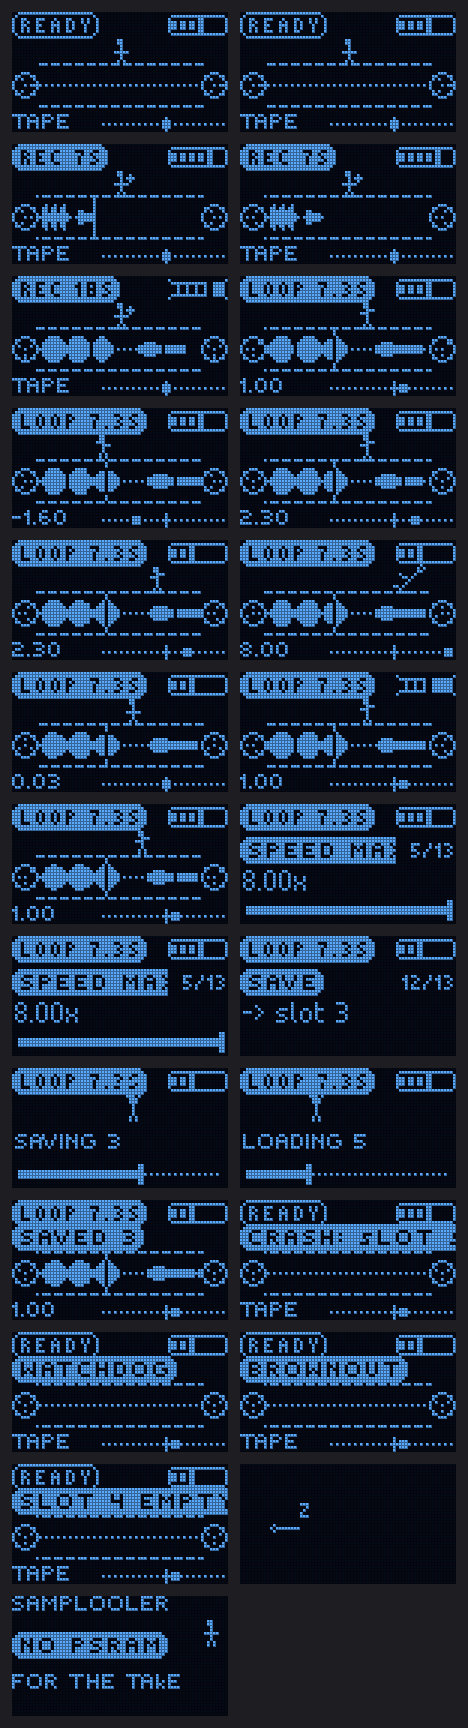
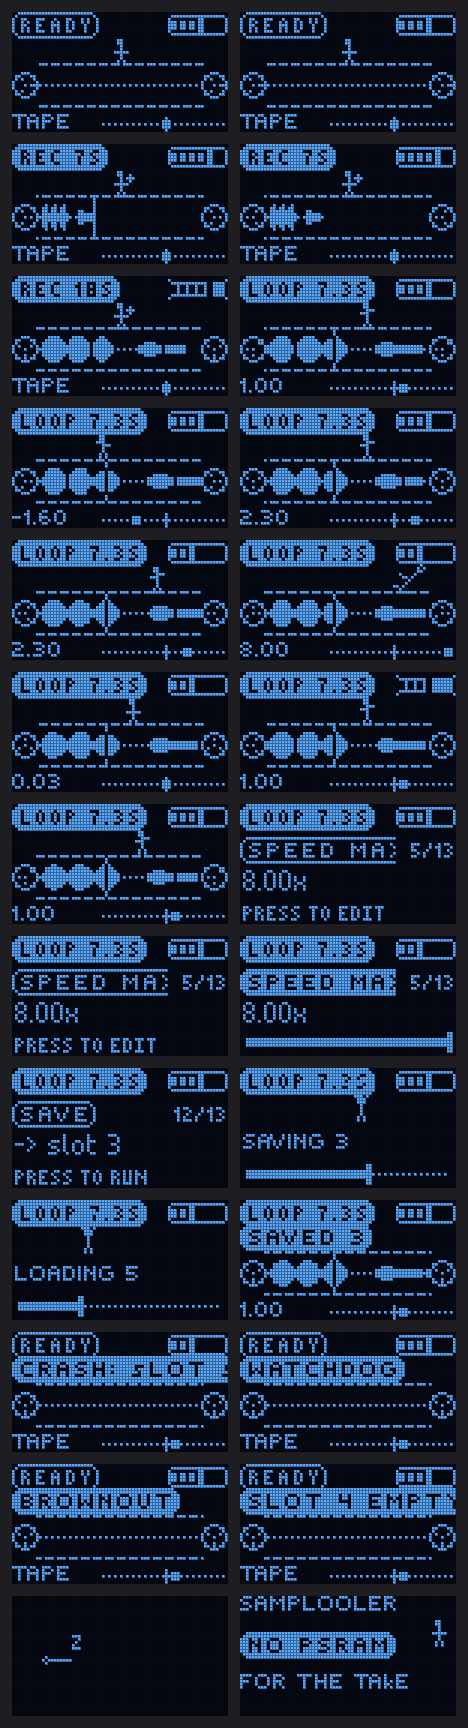
Record button instead of the joystick; the encoder runs the menu: tap to open, dive, back; hold to leave
PIN_REC (GPIO 3 on the S3, the Mini board's REC; the C3 keeps BOOT) records. The encoder is the same on
both chips: tap opens the menu, dives into the chosen setting (or runs Save/Load) and climbs back out,
hold leaves, turn chooses in the list, adjusts while editing, and in play mode adjusts the last setting
with a toast. The menu pill is outlined while choosing and filled while editing, with a hint under it.
HAS_JOY is 0; a kit with the joystick can set it to 1 for Y = speed when tilt is off and X = pitch.
tools/flash.sh also reboots a board that still runs TWOFOLD into the bootloader.

diff --git a/site/index.html b/site/index.html
@@ -204,7 +204,7 @@ footer .wrap{display:flex;justify-content:space-between;gap:12px;flex-wrap:wrap;
     <tr><td>Board</td><td>ESP32-S3 SuperMini</td><td>ESP32-C3 SuperMini with 0.42" screen</td></tr>
     <tr><td>Take</td><td>20 s at 32 kHz</td><td>about 5 to 7 s at 16 kHz</td></tr>
     <tr><td>Screen</td><td>0.96" 128x64 two-colour</td><td>0.42" 72x40, on the board</td></tr>
-    <tr><td>Controls</td><td>button, encoder, joystick</td><td>button, optional encoder</td></tr>
+    <tr><td>Controls</td><td>record button, encoder</td><td>button, optional encoder</td></tr>
     <tr><td>Modes</td><td>TAPE (speed and pitch together) and GRAIN (pitch kept, freeze, scrub)</td><td>TAPE</td></tr>
     <tr><td>Effects</td><td>delay and stutter on the roll axis</td><td>none</td></tr>
     <tr><td>USB</td><td>MIDI port, USB sound card, plugin</td><td>power and flashing only</td></tr>
@@ -276,7 +276,7 @@ footer .wrap{display:flex;justify-content:space-between;gap:12px;flex-wrap:wrap;
 
 <section id="build">
   <h2>Build one</h2>
-  <p>Four small modules wired to the board: a microphone, an audio output, a tilt sensor, and on the S3 a screen, an encoder and a joystick. Wired point to point it takes an evening if you have soldered before.</p>
+  <p>Four small modules wired to the board: a microphone, an audio output, a tilt sensor, and on the S3 a screen, an encoder and a record button. Wired point to point it takes an evening if you have soldered before.</p>
   <p>For the S3 there are also two circuit boards: a two-board stack, and a one-board Mini without the joystick. They pass their electrical and design-rule checks but have not been made yet; the files and what to check before ordering are in <a href="https://github.com/willbearfruits/samplooler/tree/main/hardware">hardware/</a>.</p>
   <div class="table"><table>
     <tr><th>Part</th><th>What it does</th><th>Rough price</th></tr>
@@ -284,7 +284,7 @@ footer .wrap{display:flex;justify-content:space-between;gap:12px;flex-wrap:wrap;
     <tr><td>INMP441</td><td>microphone</td><td>$1.50 to $3</td></tr>
     <tr><td>PCM5102A module</td><td>line out on a 3.5 mm jack</td><td>$2.50 to $5</td></tr>
     <tr><td>MPU6050 (GY-521)</td><td>tilt</td><td>$1 to $2.50</td></tr>
-    <tr><td>S3 only</td><td>0.96" OLED, EC11 encoder, joystick</td><td>about $4</td></tr>
+    <tr><td>S3 only</td><td>0.96" OLED, EC11 encoder, record button</td><td>about $4</td></tr>
   </table></div>
   <p>The output is line level: use headphones through a small amp, powered speakers, or a mixer. The full parts list, wiring, case printing and a first-power-on check are in the <a href="https://github.com/willbearfruits/samplooler/blob/main/docs/BUILD.md">build guide</a>.</p>
 </section>

diff --git a/firmware/main/main.c b/firmware/main/main.c
@@ -1,19 +1,16 @@
 // Samplooler: hold BOOT to record the mic, let go and it loops.
 // Tilt nose down to play forward faster, nose up to play backwards.
 // Roll left for a delay whose tail rings out, roll right to stutter the loop (S3).
-// Builds for the ESP32-S3 SuperMini kit (float, PSRAM, 0.96" OLED, joystick,
-// encoder) and the ESP32-C3 SuperMini (Q15, internal RAM, 0.42" OLED).
+// Builds for the ESP32-S3 SuperMini (float, PSRAM, 0.96" OLED, record button, encoder)
+// and the ESP32-C3 SuperMini (Q15, internal RAM, 0.42" OLED, encoder; BOOT records).
 //
-// Controls on the kit (BOOT is inside the case, so the encoder push records):
-//   encoder push    hold to record
-//   encoder turn    change the selected setting
-//   joystick long   menu mode on/off
-//   play mode:      click = tilt on/off; X = pitch (GRAIN); Y = speed when tilt is off
-//   menu mode:      flick up/down = previous/next setting; flick left/right = adjust; click = next setting
-// Controls on the C3 (encoder only, BOOT records):
-//   encoder turn    change the selected setting
-//   encoder hold    menu mode on/off (0.5 s)
-//   encoder tap     menu mode: next setting; play mode: tilt on/off
+// Controls (both; the S3 has a record button, the C3 records with BOOT):
+//   record button   hold to record
+//   encoder tap     play: open the menu; menu: dive into the setting (edit), or run Save/Load;
+//                   editing: back to the list
+//   encoder turn    play: adjust the last setting (a toast shows it); menu: choose; editing: adjust
+//   encoder hold    leave the menu (0.5 s)
+// With HAS_JOY (a kit with the joystick): Y sets the speed when tilt is off, X the pitch in GRAIN.
 #include <math.h>
 #include <stdio.h>
 #include <string.h>
@@ -333,7 +330,7 @@ void app_main(void)
 
     int  held_n = 0, last_state = -1, last_slot = -1, tick = 0, param = 0, toast = 0, idle_ms = 0;
     audio_stats_t last_stats = { 0 };
-    bool held = false, menu = false;
+    bool held = false, menu = false, menu_edit = false;
     float roll = 0, pitch = 0, speed_cmd = 1.0f, pitch_ratio = 1.0f, joy_pitch_st = 0;
 #if HAS_CONTROLS
     input_ev_t in = { 0 };
@@ -349,49 +346,44 @@ void app_main(void)
         bool down = gpio_get_level(PIN_BOOT) == 0 || midi_rec_hold;
 #if HAS_CONTROLS
         input_poll(&in);
-#if HAS_JOY
-        down = down || in.pressed;                            // the encoder push records too
-#endif
+        down = down || in.rec;
 #endif
         if (job != JOB_NONE) down = false;                    // a slot job owns the take
         idle_ms += 10;
         if (down) idle_ms = 0;
 #if HAS_CONTROLS
-        if (in.enc || in.tap || in.hold || in.pressed || in.joy_click || in.joy_long || in.flick_l || in.flick_r || in.flick_u || in.flick_d) idle_ms = 0;
+        if (in.enc || in.tap || in.hold || in.pressed || in.rec) idle_ms = 0;
 #endif
         held_n = down ? (held_n < 3 ? held_n + 1 : 3) : (held_n > 0 ? held_n - 1 : 0);
         bool now = held_n == 3 ? true : held_n == 0 ? false : held;
         if (now != held) { held = now; recorder_set_record(held); }
 
 #if HAS_CONTROLS
-#if HAS_JOY
-        if (in.joy_long) { menu = !menu; ESP_LOGI(TAG, "%s mode", menu ? "menu" : "play"); }
-#else
-        if (in.hold) { menu = !menu; ESP_LOGI(TAG, "%s mode", menu ? "menu" : "play"); }
+        // the encoder: tap opens the menu, dives into a setting, runs an action or climbs back out;
+        // hold leaves the menu; turn chooses in the list, adjusts while editing or in play mode
         if (in.tap) {
-            if (menu) { param = (param + 1) % P_N; char v[24]; param_text(param, v, sizeof v); ESP_LOGI(TAG, "%d/%d %s %s", param + 1, P_N, param_name[param], v); }
-            else { S.tilt = !S.tilt; setting_changed(); ESP_LOGI(TAG, "tilt %s", S.tilt ? "on" : "off"); }
+            if (!menu) { menu = true; menu_edit = false; ESP_LOGI(TAG, "menu"); }
+            else if (menu_edit) menu_edit = false;
+            else if (param == P_SAVE || param == P_LOAD) param_adjust(param, +1);
+            else menu_edit = true;
         }
+        if (in.hold && menu) { menu = false; menu_edit = false; ESP_LOGI(TAG, "play"); }
+        if (in.enc) {
+            if (menu && !menu_edit) param = ((param + in.enc) % P_N + P_N) % P_N;
+            else { param_adjust(param, in.enc); apply_settings(); if (!menu) toast = 1500; }
+            char v[24]; param_text(param, v, sizeof v); ESP_LOGI(TAG, "%d/%d %s %s", param + 1, P_N, param_name[param], v);
+        }
+#if HAS_JOY
+        joy_pitch_st = in.has_joy && !menu ? 12.0f * in.jx : 0.0f;
 #endif
-        if (in.enc) { param_adjust(param, in.enc); apply_settings(); char v[24]; param_text(param, v, sizeof v); ESP_LOGI(TAG, "%s %s", param_name[param], v); if (!menu) toast = 1500; }
-        if (menu) {
-            if (in.flick_d || in.joy_click) param = (param + 1) % P_N;
-            if (in.flick_u) param = (param + P_N - 1) % P_N;
-            if (in.flick_r) { param_adjust(param, +1); apply_settings(); }
-            if (in.flick_l) { param_adjust(param, -1); apply_settings(); }
-            joy_pitch_st = 0.0f;
-        } else {
-            if (in.joy_click) { S.tilt = !S.tilt; setting_changed(); ESP_LOGI(TAG, "tilt %s", S.tilt ? "on" : "off"); }
-            joy_pitch_st = in.has_joy ? 12.0f * in.jx : 0.0f;
-        }
 #endif
 
         if (tick % 2 == 0) {                                 // 50 Hz control rate
             if (has_imu) imu_poll(&roll, &pitch);
             float u;
             if (S.tilt && has_imu) u = (TILT_USE_ROLL ? roll : pitch) * TILT_SIGN / TILT_FULL_DEG;
-#if HAS_CONTROLS
-            else if (in.has_joy && !menu) u = in.jy;   // no joystick: has_joy is false
+#if HAS_JOY
+            else if (in.has_joy && !menu) u = in.jy;
 #endif
             else u = 1.0f;
             speed_cmd = (!S.tilt && !has_imu) ? 1.0f : control_to_speed(u);
@@ -415,8 +407,10 @@ void app_main(void)
                 int v[8] = { 0 };
                 v[1] = (int)(64 + pitch * 64.0f / 90.0f); v[2] = (int)(64 + roll * 64.0f / 90.0f);
                 v[3] = (int)(64 + speed_cmd * 63.0f / REC_SPEED_LIMIT); v[4] = (int)(recorder_position() * 127.0f);
-#if HAS_CONTROLS
+#if HAS_JOY
                 v[5] = (int)(64 + in.jx * 63.0f); v[6] = (int)(64 + in.jy * 63.0f);
+#else
+                v[5] = v[6] = 64;
 #endif
                 v[7] = (int)(meter_in * 127.0f);
                 for (int c = 1; c < 8; c++) {
@@ -458,13 +452,13 @@ void app_main(void)
                 .pitch_ratio = pitch_ratio, .tilt_pitch = TILT_USE_ROLL ? roll : pitch, .tilt_roll = TILT_USE_ROLL ? pitch : roll,
                 .has_imu = has_imu, .tilt_on = S.tilt, .pos = recorder_position(), .rec_fill = recorder_record_fill(),
                 .loop_s = recorder_loop_seconds(), .max_s = recorder_max_seconds(), .meter_in = meter_in, .meter_out = meter_out,
-                .clip = clip_hold > 0, .cpu = audio_cpu_percent(), .menu = menu, .param = param, .param_n = P_N,
+                .clip = clip_hold > 0, .cpu = audio_cpu_percent(), .menu = menu, .menu_edit = menu_edit, .param = param, .param_n = P_N,
                 .param_name = param_name[param], .param_val = pv, .param_frac = param_frac(param), .toast_ms = toast,
                 .busy_text = job != JOB_NONE ? job_text : NULL, .busy_frac = slots_progress(),
                 .note = result_ms > 0 ? result_text : tick < 700 ? diag_note() : NULL,
                 .idle_ms = recorder_state() == REC_IDLE ? idle_ms : 0,
             };
-#if HAS_CONTROLS
+#if HAS_JOY
             u.has_joy = in.has_joy;
 #endif
 #if !REC_FIXED_POINT

diff --git a/firmware/main/ui.c b/firmware/main/ui.c
@@ -357,7 +357,8 @@ static void bottom_strip(const ui_t *u)
     }
 }
 
-// The menu: a strip of three settings, the chosen one in a pill, its value in the middle.
+// The menu strip: the chosen setting's name in a pill (outlined while choosing, filled while editing),
+// its value at the right, and a slider or a hint underneath.
 static void menu_strip(const ui_t *u)
 {
     float target = u->menu ? 1.0f : 0.0f;
@@ -371,11 +372,12 @@ static void menu_strip(const ui_t *u)
     snprintf(b, sizeof b, "%d/%d", u->param + 1, u->param_n);
     oled_ftext(F_TINY, 2, top + 3, b);
     int nx = oled_ftext_w(F_TINY, b, 0) + 6;
-    oled_pill(F_SMALL, nx, top + 2, upper(u->param_name), true);
+    oled_pill(F_SMALL, nx, top + 2, upper(u->param_name), u->menu_edit);
     int vw = oled_ftext_w(F_MED, u->param_val, 0);
     oled_ftext(F_MED, OLED_W - 2 - vw, top + 2, u->param_val);
-    if (u->param_frac >= 0) slider(4, top + 13, OLED_W - 8, u->param_frac);
-    else oled_ftext_c(F_TINY, OLED_W / 2, top + 12, "TURN TO RUN", 1);
+    if (u->menu_edit && u->param_frac >= 0) slider(4, top + 13, OLED_W - 8, u->param_frac);
+    else if (u->param_frac < 0) oled_ftext_c(F_TINY, OLED_W / 2, top + 12, "PRESS TO RUN", 1);
+    else oled_ftext_c(F_TINY, OLED_W / 2, top + 12, "TURN: CHOOSE   PRESS: EDIT", 1);
 }
 
 static void toast(const ui_t *u)
@@ -582,12 +584,13 @@ void ui_draw(const ui_t *u)
     meter(OLED_W - 20, 1, 20, 7, u->meter_in, &peak_hold, u->clip);
 
     if (u->menu) {
-        oled_pill(F_SMALL, 0, 11, upper(u->param_name), true);
+        oled_pill(F_SMALL, 0, 11, upper(u->param_name), u->menu_edit);
         oled_rect(OLED_W - 20, 11, 20, 9, false);
         snprintf(line, sizeof line, "%d/%d", u->param + 1, u->param_n);
         oled_ftext_r(F_TINY, OLED_W - 1, 13, line, 0);
         oled_ftext(F_MED, 1, 22, u->param_val);
-        if (u->param_frac >= 0) slider(2, 34, OLED_W - 4, u->param_frac);
+        if (u->menu_edit && u->param_frac >= 0) slider(2, 34, OLED_W - 4, u->param_frac);
+        else oled_ftext(F_TINY, 1, 34, u->param_frac < 0 ? "PRESS TO RUN" : u->menu_edit ? "" : "PRESS TO EDIT");
         oled_flush();
         return;
     }

diff --git a/firmware/main/pins.h b/firmware/main/pins.h
@@ -16,8 +16,9 @@
 #define OLED_W        72   // 0.42" panel
 #define OLED_H        40
 #define PIN_AMP_SD    -1   // no speaker amp
-#define HAS_CONTROLS  1    // encoder only (HAS_JOY 0): turn = adjust, tap = next / tilt, hold = menu
+#define HAS_CONTROLS  1    // encoder: tap = menu / dive / back, hold = leave the menu, turn = choose or adjust
 #define HAS_JOY       0    // no joystick
+#define PIN_REC       -1   // no separate record button: BOOT records
 #define HAS_USB       0    // the C3 has no USB OTG
 #define PIN_ENC_A     0    // encoder CLK
 #define PIN_ENC_B     1    // encoder DT
@@ -36,10 +37,11 @@
 #define OLED_W        128  // the kit's 0.96" panel
 #define OLED_H        64
 #define PIN_AMP_SD    11   // kit speaker amp: driven high so the speaker plays; set -1 to leave it off
-#define HAS_CONTROLS  1    // the kit's joystick and encoder
-#define HAS_JOY       1
+#define HAS_CONTROLS  1    // encoder: tap = menu / dive / back, hold = leave the menu, turn = choose or adjust
+#define HAS_JOY       0    // 1 on a kit with the KY-023 joystick: Y sets the speed when tilt is off, X the pitch
+#define PIN_REC       3    // record button to GND (the Mini board's REC; the joystick's old click pin)
 #define HAS_USB       1    // native USB: console + MIDI + sound card
-#define PIN_JOY_X     2    // ADC1 (ADC2 dies with WiFi)
+#define PIN_JOY_X     2    // ADC1 (ADC2 dies with WiFi)   (HAS_JOY only)
 #define PIN_JOY_Y     1
 #define PIN_JOY_SW    3    // active low
 #define PIN_ENC_A     4

diff --git a/firmware/main/input.h b/firmware/main/input.h
@@ -1,5 +1,5 @@
-// Joystick (ADC1 + click) and encoder (PCNT + push). BOOT is read by main.c;
-// here the push is the encoder's own. S3 only (HAS_CONTROLS).
+// The record button, the encoder (PCNT + push) and, with HAS_JOY, the kit's joystick (ADC1 + click).
+// BOOT is read by main.c. HAS_CONTROLS targets only.
 #pragma once
 #include <stdbool.h>
 
@@ -7,6 +7,7 @@ typedef struct {
     int   enc;                 // detents turned since last poll, signed
     bool  tap, hold, longp;    // encoder push: released < 0.5 s; held 0.5 s; held 3 s (once)
     bool  pressed; int held_ms;
+    bool  rec;                 // the record button is down (PIN_REC)
     bool  joy_click;           // released before 0.7 s
     bool  joy_long;            // held 0.7 s (fires once)
     bool  flick_l, flick_r, flick_u, flick_d;

diff --git a/tools/uisim/sim.c b/tools/uisim/sim.c
@@ -42,7 +42,8 @@ int main(void) {
     u.clip = false; u.toast_ms = 900; u.param = 0; u.param_name = "Mic gain"; u.param_val = "18 dB"; u.param_frac = 0.5f;
     frames(&u, 2); dump("17_toast");
     u.toast_ms = 0; u.menu = true; u.param = 4; u.param_name = "Speed max"; u.param_val = "8.00x"; u.param_frac = 1.0f;
-    frames(&u, 2); dump("18_menu_sliding"); frames(&u, 10); dump("19_menu_open");
+    frames(&u, 2); dump("18_menu_sliding"); frames(&u, 10); dump("19_menu_list");
+    u.menu_edit = true; frames(&u, 1); dump("19b_menu_edit"); u.menu_edit = false;
     u.param = 11; u.param_name = "Save"; u.param_val = "-> slot 3"; u.param_frac = -1; frames(&u, 1); dump("20_menu_save");
     u.menu = false; frames(&u, 10);
     u.busy_text = "SAVING 3"; u.busy_frac = 0.6f; frames(&u, 12); dump("21_saving");

diff --git a/firmware/main/input.c b/firmware/main/input.c
@@ -75,6 +75,11 @@ void input_init(void)
         .mode = GPIO_MODE_INPUT, .pull_up_en = GPIO_PULLUP_ENABLE,
     };
     ESP_ERROR_CHECK(gpio_config(&in));
+#if PIN_REC >= 0
+    gpio_config_t rec = { .pin_bit_mask = 1ULL << PIN_REC, .mode = GPIO_MODE_INPUT, .pull_up_en = GPIO_PULLUP_ENABLE };
+    ESP_ERROR_CHECK(gpio_config(&rec));
+    ESP_LOGI(TAG, "record button on %d", PIN_REC);
+#endif
 
 #if SOC_PCNT_SUPPORTED
     pcnt_unit_config_t uc = { .high_limit = 30000, .low_limit = -30000 };
@@ -172,6 +177,9 @@ void input_poll(input_ev_t *ev)
     }
     ev->pressed = pressed; ev->held_ms = held;
     was_pressed = pressed;
+#if PIN_REC >= 0
+    ev->rec = gpio_get_level(PIN_REC) == 0;
+#endif
 
 #if HAS_JOY
     static bool joy_was, joy_long_fired;

diff --git a/firmware/main/ui.h b/firmware/main/ui.h
@@ -18,7 +18,7 @@ typedef struct {
     bool  fx_delay, fx_stutter;
     int   cpu;
     // menu and the transient setting toast
-    bool  menu;
+    bool  menu, menu_edit;           // the list, or editing the chosen setting
     int   param, param_n;
     const char *param_name, *param_val;
     float param_frac;                // 0..1 position of the value in its range, <0 for actions

diff --git a/docs/BUILD.md b/docs/BUILD.md
@@ -16,7 +16,7 @@ check. The pin tables here come from `firmware/main/pins.h`; the pin map page
 | Modes | TAPE and GRAIN | TAPE only |
 | Roll effects | left = delay, right = stutter | none |
 | Screen | 0.96" 128 x 64 OLED | the board's 0.42" 72 x 40 OLED |
-| Controls | EC11 encoder, KY-023 joystick, BOOT | BOOT, optional EC11 encoder |
+| Controls | record button, EC11 encoder, BOOT | BOOT, optional EC11 encoder |
 | USB | MIDI port, sound card, plugin | none (the C3 has no USB OTG) |
 | Sample slots | 8, on flash | 8, on flash |
 | Case | the kit's case | `enclosure/samplooler.scad` |
@@ -42,7 +42,7 @@ shipping. Expect them to move.
 | 1 | MPU6050 GY-521 breakout | $1 to 2.5 |
 | 1 | SSD1306 0.96" 128 x 64 OLED, 4-pin I2C | about $2 |
 | 1 | EC11 rotary encoder with push switch | $0.8 to 2 |
-| 1 | KY-023 joystick board | $0.6 to 1.5 |
+| 1 | 12 mm tactile button (record) | a few cents |
 | 0 or 1 | MAX98357A amp + small 4 or 8 ohm speaker (optional) | a few dollars |
 | | Hookup wire, heat-shrink, 3D-printed case | |
 
@@ -92,9 +92,7 @@ makes 3.3 V); everything else runs from 3V3. All GPIO logic is 3.3 V.
 | ENC A | 4 | encoder CLK |
 | ENC B | 5 | encoder DT |
 | ENC SW | 6 | encoder push |
-| JOY X | 2 | joystick VRx |
-| JOY Y | 1 | joystick VRy |
-| JOY SW | 3 | joystick SW |
+| REC | 3 | record button, other leg to GND (a 12 mm tactile button, or any momentary switch) |
 | AMP SD | 11 | MAX98357A SD (optional; the firmware drives it high so the speaker plays) |
 | BOOT | 0 | button on the board |
 
@@ -274,25 +272,17 @@ If the device ever restarts on its own, the screen says why for a few seconds (`
 
 ## 8. Controls
 
-### S3
+The same on both; the S3 has a record button, the C3 records with BOOT.
 
-| Control | Play mode | Menu mode |
-| - | - | - |
-| Encoder push, hold (or BOOT) | record | record |
-| Encoder turn | change the selected setting | change the selected setting |
-| Joystick long press (0.7 s) | enter menu mode | back to play mode |
-| Joystick click | tilt on or off | next setting |
-| Joystick up / down | speed when tilt is off | previous / next setting |
-| Joystick left / right | pitch in GRAIN mode | adjust the setting |
+| Control | Play | Menu: choosing | Menu: editing |
+| - | - | - | - |
+| Record button (or BOOT), hold | record | record | record |
+| Encoder tap | open the menu | edit the setting, or run Save / Load | back to the list |
+| Encoder turn | adjust the last setting (a toast shows it) | choose a setting | adjust it |
+| Encoder hold (0.5 s) | | leave the menu | leave the menu |
 
-### C3 mini
-
-| Control | Play mode | Menu mode |
-| - | - | - |
-| BOOT, hold | record | record |
-| Encoder turn | change the selected setting | change the selected setting |
-| Encoder hold (0.5 s) | enter menu mode | back to play mode |
-| Encoder tap | tilt on or off | next setting |
+On a kit that still has the joystick, build with `HAS_JOY 1` in `pins.h`: its Y axis sets the
+speed when Tilt is off and its X axis the pitch in GRAIN mode.
 
 ### Settings
 
@@ -301,7 +291,7 @@ If the device ever restarts on its own, the screen says why for a few seconds (`
 | Mic gain | 0 to 36 dB | 12 dB | |
 | Mode | TAPE, GRAIN | TAPE | GRAIN on the S3 only |
 | Pitch | semitones | 0 | GRAIN only |
-| Tilt | on, off | on | off: the S3 joystick sets the speed |
+| Tilt | on, off | on | off: plays at 1x (or at the joystick's Y with `HAS_JOY`) |
 | Speed max | 0.25 to 8x | 2x | speed at 45 degrees of tilt; above 2x the recording aliases audibly |
 | Speed min | 0 to 1x | 0.05x | the crawl when flat |
 | Snap | on, off | off | speeds quantised to octaves and fifths |

diff --git a/CLAUDE.md b/CLAUDE.md
@@ -73,8 +73,11 @@ releases `vX.Y.Z`.
 ## Firmware architecture (`firmware/main/`)
 
 **One source tree, two targets, selected by `CONFIG_IDF_TARGET_ESP32C3`.** `pins.h` defines per-target
-pins and capability flags (`HAS_USB`, `HAS_JOY`, `HAS_CONTROLS`, `OLED_ENABLE`, `OLED_W/H`); code is
-gated on those flags rather than on the target directly. `recorder.h` picks the sample type:
+pins and capability flags (`HAS_USB`, `HAS_JOY`, `HAS_CONTROLS`, `PIN_REC`, `OLED_ENABLE`, `OLED_W/H`);
+code is gated on those flags rather than on the target directly. Controls are one scheme on both chips:
+a record button (`PIN_REC`, GPIO 3 on the S3; the C3 uses BOOT) and the encoder (tap = menu / dive /
+back, hold = leave, turn = choose or adjust; `menu` and `menu_edit` in `main.c`). `HAS_JOY` is 0; set
+it to 1 for a kit with the joystick (Y = speed when tilt is off, X = pitch in GRAIN). `recorder.h` picks the sample type:
 
 | | S3 | C3 |
 | - | - | - |

diff --git a/README.md b/README.md
@@ -28,7 +28,7 @@ a round of fixes once real parts arrive. Reports of builds, good or bad, are wel
 | Modes | tape (speed and pitch together) and grain (apart) | tape |
 | Roll effects | tape delay, stutter | none |
 | Screen | 0.96" 128 × 64 OLED | the board's 0.42" 72 × 40 OLED |
-| Controls | encoder, joystick, record button | record button, optional encoder |
+| Controls | record button, encoder | record button, optional encoder |
 | With a computer | USB MIDI and sound card, VST3 plugin | none |
 | Parts, roughly | $15 to $25 | $10 to $17 |
 
